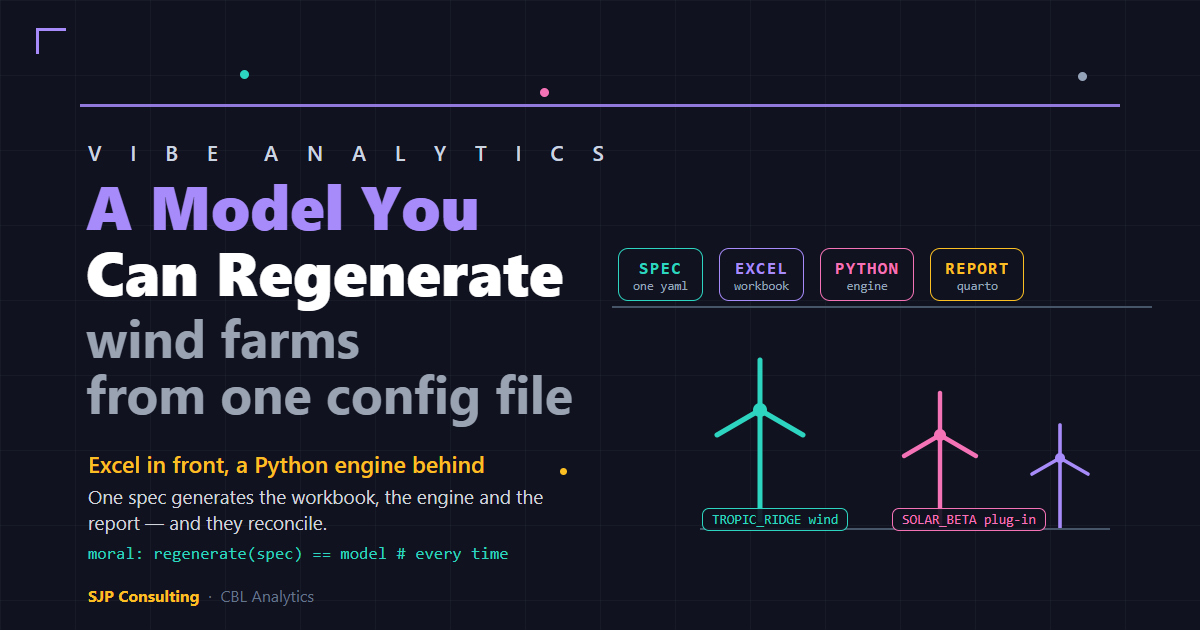
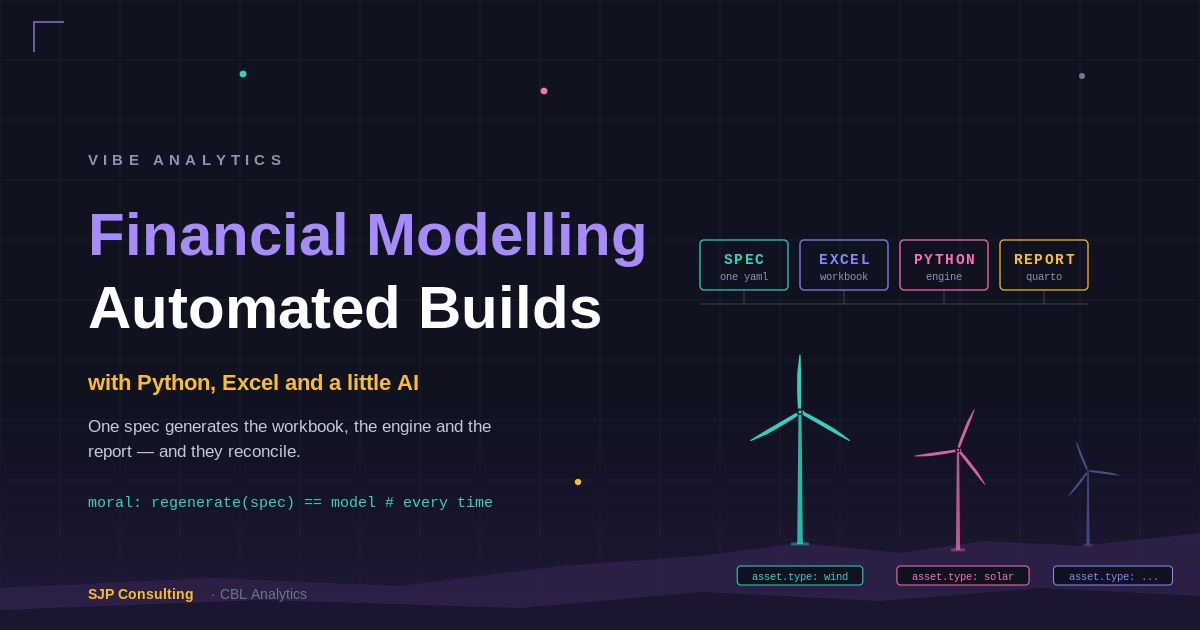
Reframe renewables hero around financial modelling
Title now reads Financial Modelling / Automated Builds / with Python,
Excel and a little AI, so the hero leads with the category rather than
the worked example. Turbine tags become asset.type: wind/solar/... to
show the swappable module rather than a wind-specific project.

Adds tools/make_hero_2026-07-31.py, the parameterised SVG generator
that produced it.

diff --git a/tools/make_hero_2026-07-31.py b/tools/make_hero_2026-07-31.py
@@ -1,0 +1,234 @@
+#!/usr/bin/env python3
+"""
+Hero banner generator for cblanalytics.com posts.
+
+House theme (extracted from the Feb/Jun 2026 heroes):
+  bg            #10121f  dark navy
+  grid          #171a27
+  purple title  #a78bfa
+  white title   #ffffff
+  muted         #8b93b8
+  amber         #fbbf24
+  teal          #2dd4bf
+  pink          #f472b6
+  indigo        #818cf8
+  ridge         layered dark purple silhouette across the bottom
+
+Renders 1200x630 (Open Graph / Quarto listing card ratio).
+"""
+
+import math
+import cairosvg
+
+W, H = 1200, 630
+
+BG      = "#10121f"
+GRID    = "#191d2c"
+PURPLE  = "#a78bfa"
+WHITE   = "#ffffff"
+MUTED   = "#8b93b8"
+DIM     = "#6b7390"
+AMBER   = "#fbbf24"
+TEAL    = "#2dd4bf"
+PINK    = "#f472b6"
+INDIGO  = "#818cf8"
+
+SANS = "Liberation Sans, DejaVu Sans, sans-serif"
+MONO = "Liberation Mono, DejaVu Sans Mono, monospace"
+
+import os
+VARIANT = os.environ.get("VARIANT", "a")
+T1 = "Financial Modelling"
+T2 = {"a": "builds automated", "b": "Automated Builds"}[VARIANT]
+STRAP = "with Python, Excel and a little AI"
+OUT = f"hero_{VARIANT}.png"
+
+p = []          # svg fragments
+add = p.append
+
+
+# ---------------------------------------------------------------- turbines
+def turbine(cx, ground, height, rotor, colour, phase=0.0, opacity=1.0):
+    """A schematic three-blade turbine standing on `ground`.
+
+    cx      tower centreline
+    height  hub height above ground
+    rotor   blade length from hub
+    phase   rotor rotation in degrees
+    """
+    hub_y = ground - height
+    base_w, top_w = height * 0.021, height * 0.011
+    g = [f'<g opacity="{opacity}">']
+
+    # tapered tower
+    g.append(
+        f'<path d="M {cx-base_w:.1f} {ground:.1f} '
+        f'L {cx-top_w:.1f} {hub_y:.1f} L {cx+top_w:.1f} {hub_y:.1f} '
+        f'L {cx+base_w:.1f} {ground:.1f} Z" fill="{colour}" opacity="0.85"/>'
+    )
+    # footing
+    g.append(
+        f'<rect x="{cx-base_w*3.4:.1f}" y="{ground-1.6:.1f}" '
+        f'width="{base_w*6.8:.1f}" height="3" rx="1.5" '
+        f'fill="{colour}" opacity="0.45"/>'
+    )
+
+    # three tapered blades at 120 degrees
+    for i in range(3):
+        a = math.radians(phase + i * 120)
+        ca, sa = math.cos(a), math.sin(a)
+
+        def pt(u, v):
+            # u along the blade axis, v perpendicular
+            return (cx + u * ca - v * sa, hub_y + u * sa + v * ca)
+
+        root_w, mid_w, tip = rotor * 0.036, rotor * 0.055, rotor * 0.010
+        a1 = pt(rotor * 0.06, -root_w)
+        a2 = pt(rotor * 0.34, -mid_w)
+        a3 = pt(rotor * 0.99, -tip)
+        b3 = pt(rotor * 0.99, tip)
+        b2 = pt(rotor * 0.40, root_w * 0.55)
+        b1 = pt(rotor * 0.06, root_w * 0.55)
+        c1 = pt(rotor * 0.68, -mid_w * 0.85)   # control points
+        c2 = pt(rotor * 0.70, tip * 2.2)
+        g.append(
+            f'<path d="M {a1[0]:.1f} {a1[1]:.1f} '
+            f'Q {a2[0]:.1f} {a2[1]:.1f} {c1[0]:.1f} {c1[1]:.1f} '
+            f'L {a3[0]:.1f} {a3[1]:.1f} L {b3[0]:.1f} {b3[1]:.1f} '
+            f'Q {c2[0]:.1f} {c2[1]:.1f} {b2[0]:.1f} {b2[1]:.1f} '
+            f'L {b1[0]:.1f} {b1[1]:.1f} Z" fill="{colour}"/>'
+        )
+
+    # nacelle + hub
+    nl = rotor * 0.115
+    g.append(
+        f'<rect x="{cx-nl*0.35:.1f}" y="{hub_y-nl*0.30:.1f}" '
+        f'width="{nl:.1f}" height="{nl*0.60:.1f}" rx="{nl*0.30:.1f}" '
+        f'fill="{colour}"/>'
+    )
+    g.append(f'<circle cx="{cx:.1f}" cy="{hub_y:.1f}" r="{rotor*0.052:.1f}" fill="{BG}"/>')
+    g.append(f'<circle cx="{cx:.1f}" cy="{hub_y:.1f}" r="{rotor*0.028:.1f}" fill="{colour}"/>')
+    g.append("</g>")
+    return "".join(g)
+
+
+def chip(x, y, w, h, label, sub, colour):
+    return (
+        f'<rect x="{x}" y="{y}" width="{w}" height="{h}" rx="4" '
+        f'fill="none" stroke="{colour}" stroke-width="1.4" opacity="0.9"/>'
+        f'<text x="{x+w/2}" y="{y+24}" font-family="{MONO}" font-size="14.5" '
+        f'font-weight="bold" fill="{colour}" text-anchor="middle" '
+        f'letter-spacing="1.4">{label}</text>'
+        f'<text x="{x+w/2}" y="{y+40}" font-family="{MONO}" font-size="10.5" '
+        f'fill="{MUTED}" text-anchor="middle">{sub}</text>'
+    )
+
+
+def tag(cx, y, text, colour):
+    w = len(text) * 6.6 + 20
+    return (
+        f'<rect x="{cx-w/2:.1f}" y="{y}" width="{w:.1f}" height="19" rx="3.5" '
+        f'fill="{BG}" stroke="{colour}" stroke-width="1.1" opacity="0.95"/>'
+        f'<text x="{cx:.1f}" y="{y+13.5}" font-family="{MONO}" font-size="10.5" '
+        f'fill="{colour}" text-anchor="middle">{text}</text>'
+    )
+
+
+# ---------------------------------------------------------------- canvas
+add(f'<svg xmlns="http://www.w3.org/2000/svg" width="{W}" height="{H}" '
+    f'viewBox="0 0 {W} {H}">')
+add('<defs>'
+    f'<linearGradient id="rule" x1="0" y1="0" x2="1" y2="0">'
+    f'<stop offset="0%" stop-color="{PURPLE}"/>'
+    f'<stop offset="55%" stop-color="#c084fc"/>'
+    f'<stop offset="100%" stop-color="{PINK}"/></linearGradient>'
+    f'<linearGradient id="glow" x1="0" y1="0" x2="0" y2="1">'
+    f'<stop offset="0%" stop-color="#1b1533" stop-opacity="0"/>'
+    f'<stop offset="100%" stop-color="#241a3d" stop-opacity="0.85"/></linearGradient>'
+    '</defs>')
+add(f'<rect width="{W}" height="{H}" fill="{BG}"/>')
+
+# faint grid
+for x in range(0, W + 1, 60):
+    add(f'<line x1="{x}" y1="0" x2="{x}" y2="{H}" stroke="{GRID}" stroke-width="1"/>')
+for y in range(0, H + 1, 60):
+    add(f'<line x1="0" y1="{y}" x2="{W}" y2="{y}" stroke="{GRID}" stroke-width="1"/>')
+
+# ---------------------------------------------------------------- ridge
+add(f'<rect x="0" y="380" width="{W}" height="250" fill="url(#glow)"/>')
+# far ridge - the turbines stand on this one
+add('<path d="M 0 588 L 210 578 L 400 586 L 560 566 L 700 556 L 800 543 '
+    f'L 900 553 L 985 541 L 1080 546 L 1200 533 L 1200 630 L 0 630 Z" '
+    f'fill="#2e2149" opacity="0.85"/>')
+# near ridge - overlaps the tower feet for depth
+add('<path d="M 0 610 L 260 600 L 520 608 L 700 592 L 880 601 L 1040 588 '
+    f'L 1200 596 L 1200 630 L 0 630 Z" fill="#1b1530" opacity="0.95"/>')
+
+# ---------------------------------------------------------------- frame
+add(f'<path d="M 34 52 L 34 22 L 64 22" fill="none" stroke="{PURPLE}" '
+    f'stroke-width="1.6" opacity="0.75"/>')
+add(f'<line x1="80" y1="101" x2="1120" y2="101" stroke="url(#rule)" stroke-width="1.8"/>')
+add(f'<circle cx="243" cy="74" r="3.4" fill="{TEAL}"/>')
+add(f'<circle cx="544" cy="91" r="3.4" fill="{PINK}"/>')
+add(f'<circle cx="1082" cy="76" r="3.0" fill="{MUTED}" opacity="0.8"/>')
+add(f'<circle cx="578" cy="482" r="3.2" fill="{AMBER}"/>')
+
+# ---------------------------------------------------------------- copy
+X = 88
+add(f'<text x="{X}" y="165" font-family="{SANS}" font-size="15" font-weight="bold" '
+    f'fill="{MUTED}" letter-spacing="5.2">VIBE ANALYTICS</text>')
+
+add(f'<text x="{X}" y="255" font-family="{SANS}" font-size="60" font-weight="bold" '
+    f'fill="{PURPLE}">{T1}</text>')
+add(f'<text x="{X}" y="328" font-family="{SANS}" font-size="60" font-weight="bold" '
+    f'fill="{WHITE}">{T2}</text>')
+
+add(f'<text x="{X}" y="390" font-family="{SANS}" font-size="22" font-weight="bold" '
+    f'fill="{AMBER}">{STRAP}</text>')
+add(f'<text x="{X}" y="432" font-family="{SANS}" font-size="17" fill="#c4cad8">'
+    f'One spec generates the workbook, the engine and the</text>')
+add(f'<text x="{X}" y="457" font-family="{SANS}" font-size="17" fill="#c4cad8">'
+    f'report &#8212; and they reconcile.</text>')
+add(f'<text x="{X}" y="507" font-family="{MONO}" font-size="15" fill="{TEAL}">'
+    f'moral: regenerate(spec) == model  # every time</text>')
+
+# footer
+add(f'<text x="{X}" y="599" font-family="{SANS}" font-size="14" font-weight="bold" '
+    f'fill="{AMBER}">SJP Consulting</text>')
+add(f'<text x="{X+123}" y="599" font-family="{SANS}" font-size="14" fill="{DIM}">'
+    f'&#183;  CBL Analytics</text>')
+
+# ---------------------------------------------------------------- right side
+cw, ch, gap, cx0, cy0 = 88, 50, 12, 700, 240
+for i, (lab, sub, col) in enumerate([
+        ("SPEC", "one yaml", TEAL),
+        ("EXCEL", "workbook", INDIGO),
+        ("PYTHON", "engine", PINK),
+        ("REPORT", "quarto", AMBER)]):
+    add(chip(cx0 + i * (cw + gap), cy0, cw, ch, lab, sub, col))
+
+# connector rail under the chips
+add(f'<line x1="{cx0}" y1="{cy0+ch+14}" x2="{cx0+4*cw+3*gap}" y2="{cy0+ch+14}" '
+    f'stroke="{MUTED}" stroke-width="1" opacity="0.35"/>')
+for i in range(4):
+    x = cx0 + i * (cw + gap) + cw / 2
+    add(f'<line x1="{x}" y1="{cy0+ch}" x2="{x}" y2="{cy0+ch+14}" '
+        f'stroke="{MUTED}" stroke-width="1" opacity="0.35"/>')
+
+# turbines on the ridge
+add(turbine(1088, 545, 74,  32, INDIGO, phase=-112, opacity=0.48))
+add(turbine(958,  550, 100, 44, PINK,   phase=-68,  opacity=0.85))
+add(turbine(800,  544, 132, 58, TEAL,   phase=-90,  opacity=1.0))
+
+add(tag(800, 566, "asset.type: wind", TEAL))
+add(tag(963, 566, "asset.type: solar", PINK))
+add(tag(1113, 566, "asset.type: ...", INDIGO))
+
+add("</svg>")
+
+svg = "".join(p)
+with open(OUT.replace(".png",".svg"), "w") as f:
+    f.write(svg)
+cairosvg.svg2png(bytestring=svg.encode(), write_to=OUT,
+                 output_width=W, output_height=H)
+print("wrote", OUT)
